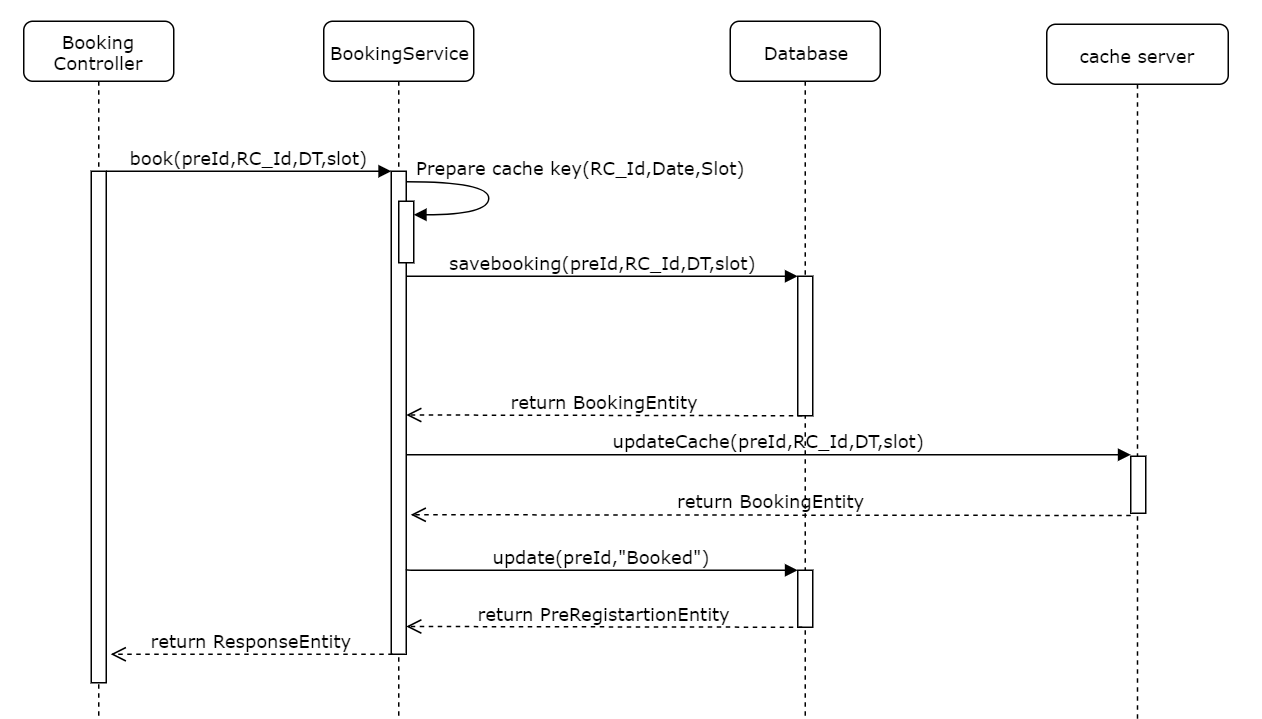
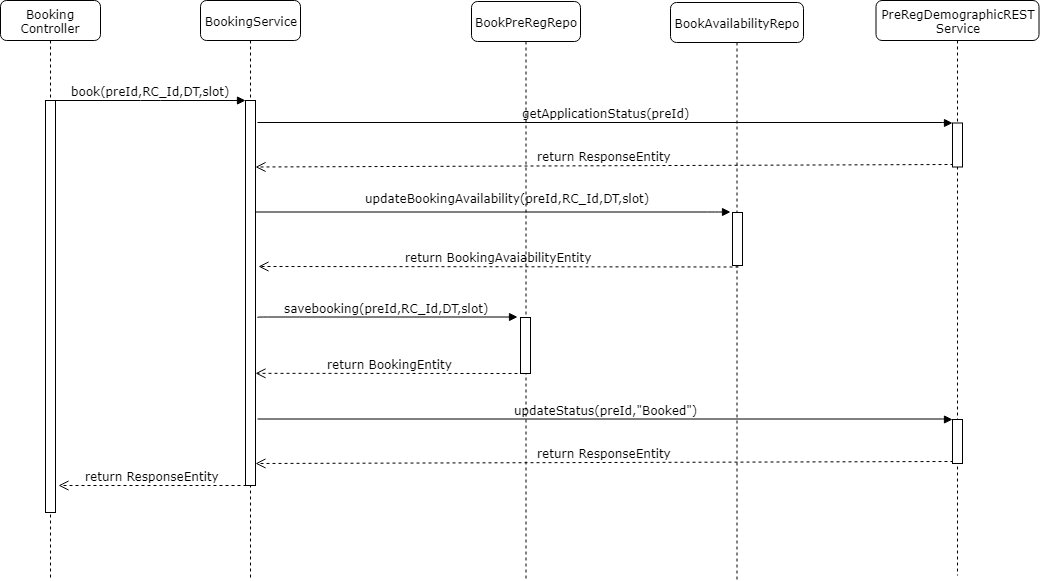
Booking design update

diff --git a/design/pre-registration/pre-registration-booking-service.md b/design/pre-registration/pre-registration-booking-service.md
@@ -17,15 +17,19 @@ The key requirements are -
 
     -   Registration center Id
 
-    -   DateTime
+    -   Registration Date
 
-    -   Time slot
+    -   From time slot
 
-- This ablove details need to store in a pre-registration database. Once storing the data is completed then syatem need to update the cache server.
+    -   To  time slot
 
-- A key should get generate with Registration center id, date and a time slot. with this generated key cache should get update the value.
+- Only 'Pending-Appointment' pre-registartions are eligible for booking. if the pre-registration is in any other status other then 'Pending-Appointment' throw an exception saying 'Appointment booking can not be done'.
 
--  Once the cache get updated successfully then an status need to update in the applicant_demographic table to "Booked".
+- Check for availability in the avialability table by using Registration center id, Registration date, from time slot and to time slot. 
+
+- If there is an availability then update the availability  for requested time slot then store in a pre-registration booking table. 
+
+- Once the booking data successfully stored then an status need to update in the applicant_demographic table to "Booked".
 
 The key non-functional requirements are
 
@@ -36,8 +40,7 @@ The key non-functional requirements are
 
 -   Audit :
 
-    -   Each state of the Pre-Registration booking appointment should be stored into the DB
-        for audit purpose.
+    -   Each state of the Pre-Registration booking appointment should be stored into the DB for audit purpose.
 
     -   Pre-reg Id and important detail of the applicant should not be audited.
 
@@ -50,13 +53,18 @@ The key non-functional requirements are
 
 **Booking an appointment :**
 
--   Create a REST API as '/booking' accept the PreRegistrationId,Registration center id, booking date time and slot from the pre-registration application portal.
+-  Create a REST API as '/booking' accept the PreRegistrationId,Registration center id, booking date, from time slot and to time slot from the pre-registration application portal.
 
--   Generate an cache key using Registration center id, booking date time and slot.
+- Check the status of the application by doing REST call. if the status is 'Pending-Appointment' then processed with booking appointment else throw an exception saying 'Appointment booking can not be done'.
 
--   Once the key generated successfully update the cache using the generated key by decrementing the value by 1.
+-  Update the cache using the generated key by decrementing the value by 1. before updating check the number of availability.
+      - If the number of availability is zero(0) then thow an exception saying Appointment booking can not be done.
 
--   Save the booking data in the pre-registration booking table. after inserting the booking data system need to update the main table (applicant_demographic) with the status code "Booked"
+-   Insert the booking data in the pre-registration booking table. after sucessfully inserting the data then update the main table (applicant_demographic) with the status code 'Booked'
+
+- To update the main table (applicant_demographic) with the status code 'Booked' by doing REST call.
+
+- If updation failed due to network issue then rollback the transaction and thow an exception 'Appointment booking failed'.
 
 -   Audit the exception/start/exit of the each stages of the Pre-registration create mechanism using AuditManager component.
 
@@ -74,8 +82,11 @@ The key non-functional requirements are
 
   Code   |       Type  | Message|
 -----|----------|-------------|
-  PRG_PAM_RCI-001 |  Error   |   User has not been selected any time slot.
-  PRG_PAM_RCI_002  | Error   |   Appointment time slot is already booked.
+  PRG_PAM_RCI-001 |  Error   |   Appointment booking can not be done.
+  PRG_PAM_RCI-002 |  Error   |   Availability not there for selected time slot.
+  PRG_PAM_RCI-003 |  Error   |   User has not been selected any time slot.
+  PRG_PAM_RCI_004  | Error   |   Appointment time slot is already booked.
+  PRG_PAM_RCI_005  | Error   |   Appointment booking failed.
 
 **Dependency Modules**
 
